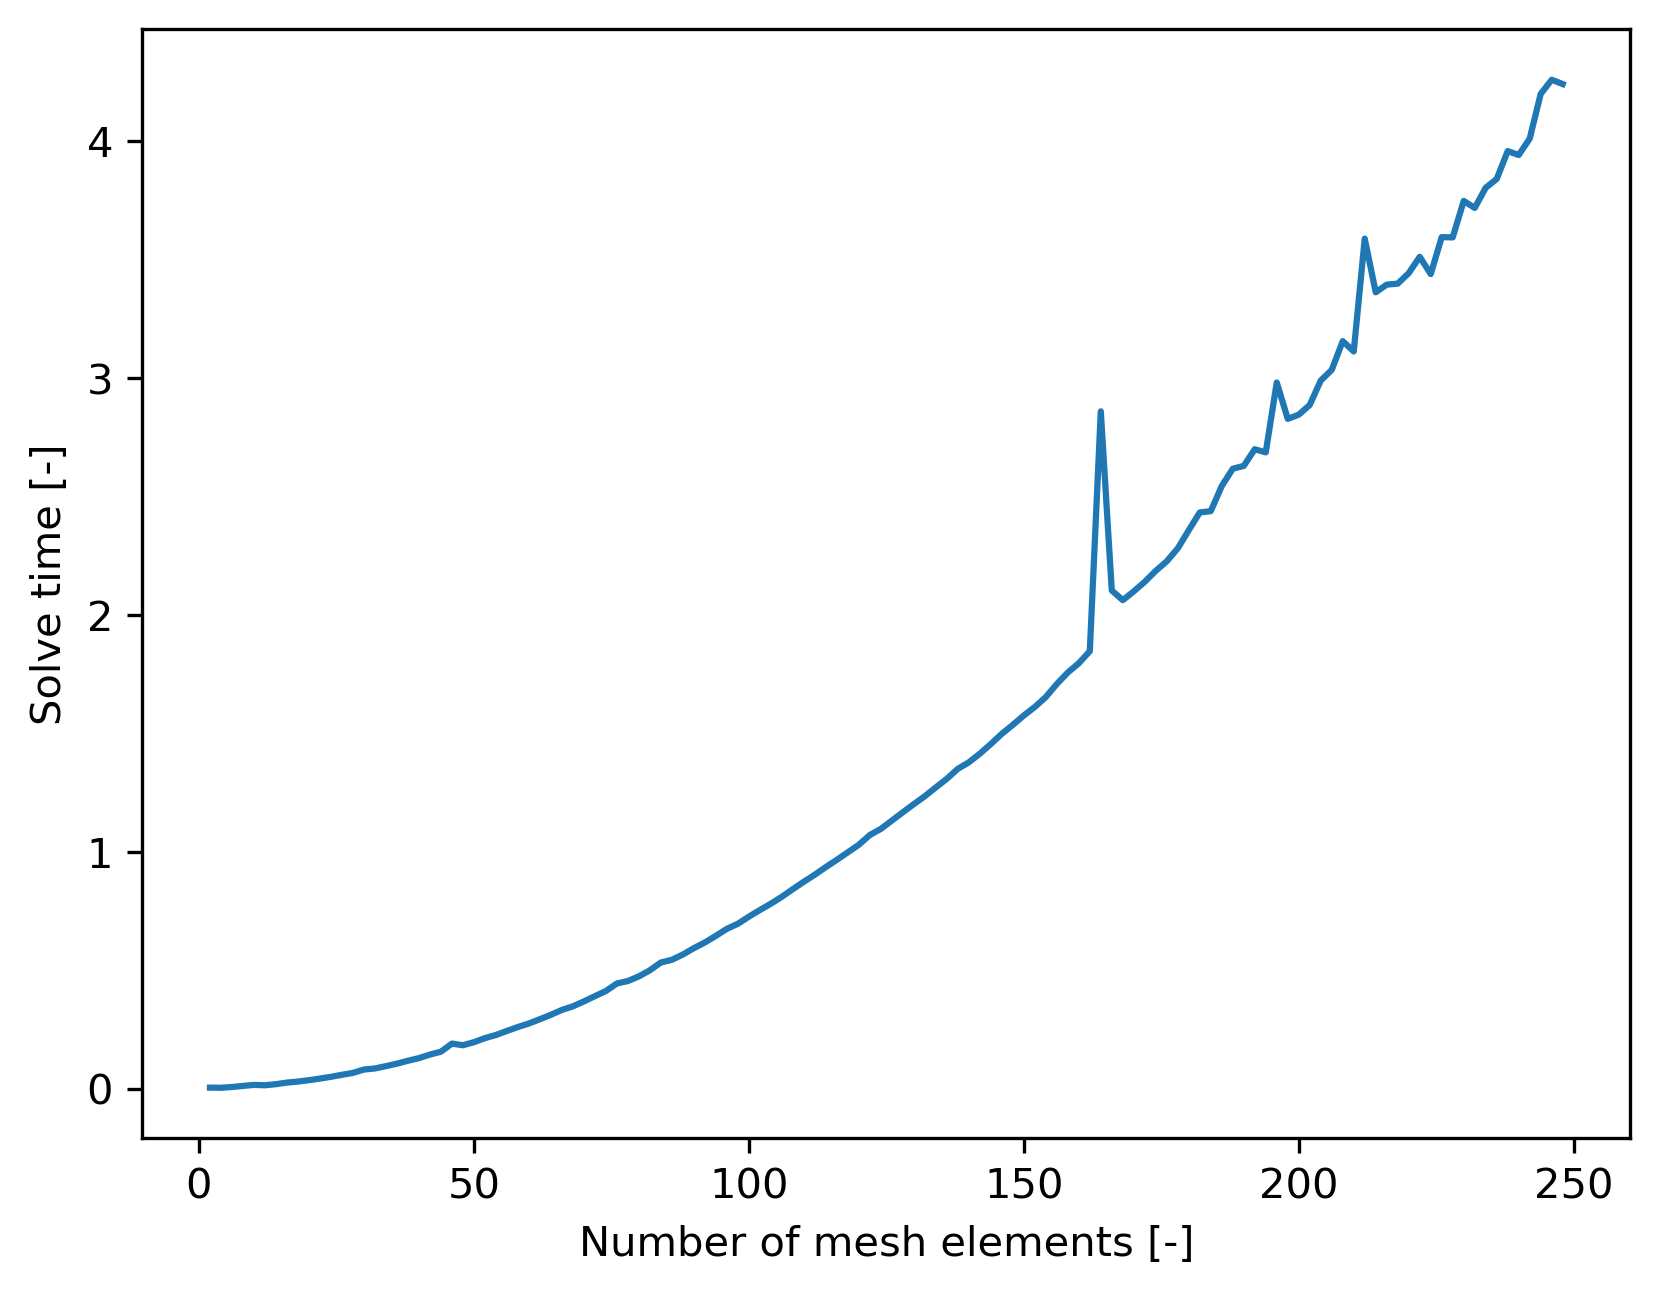
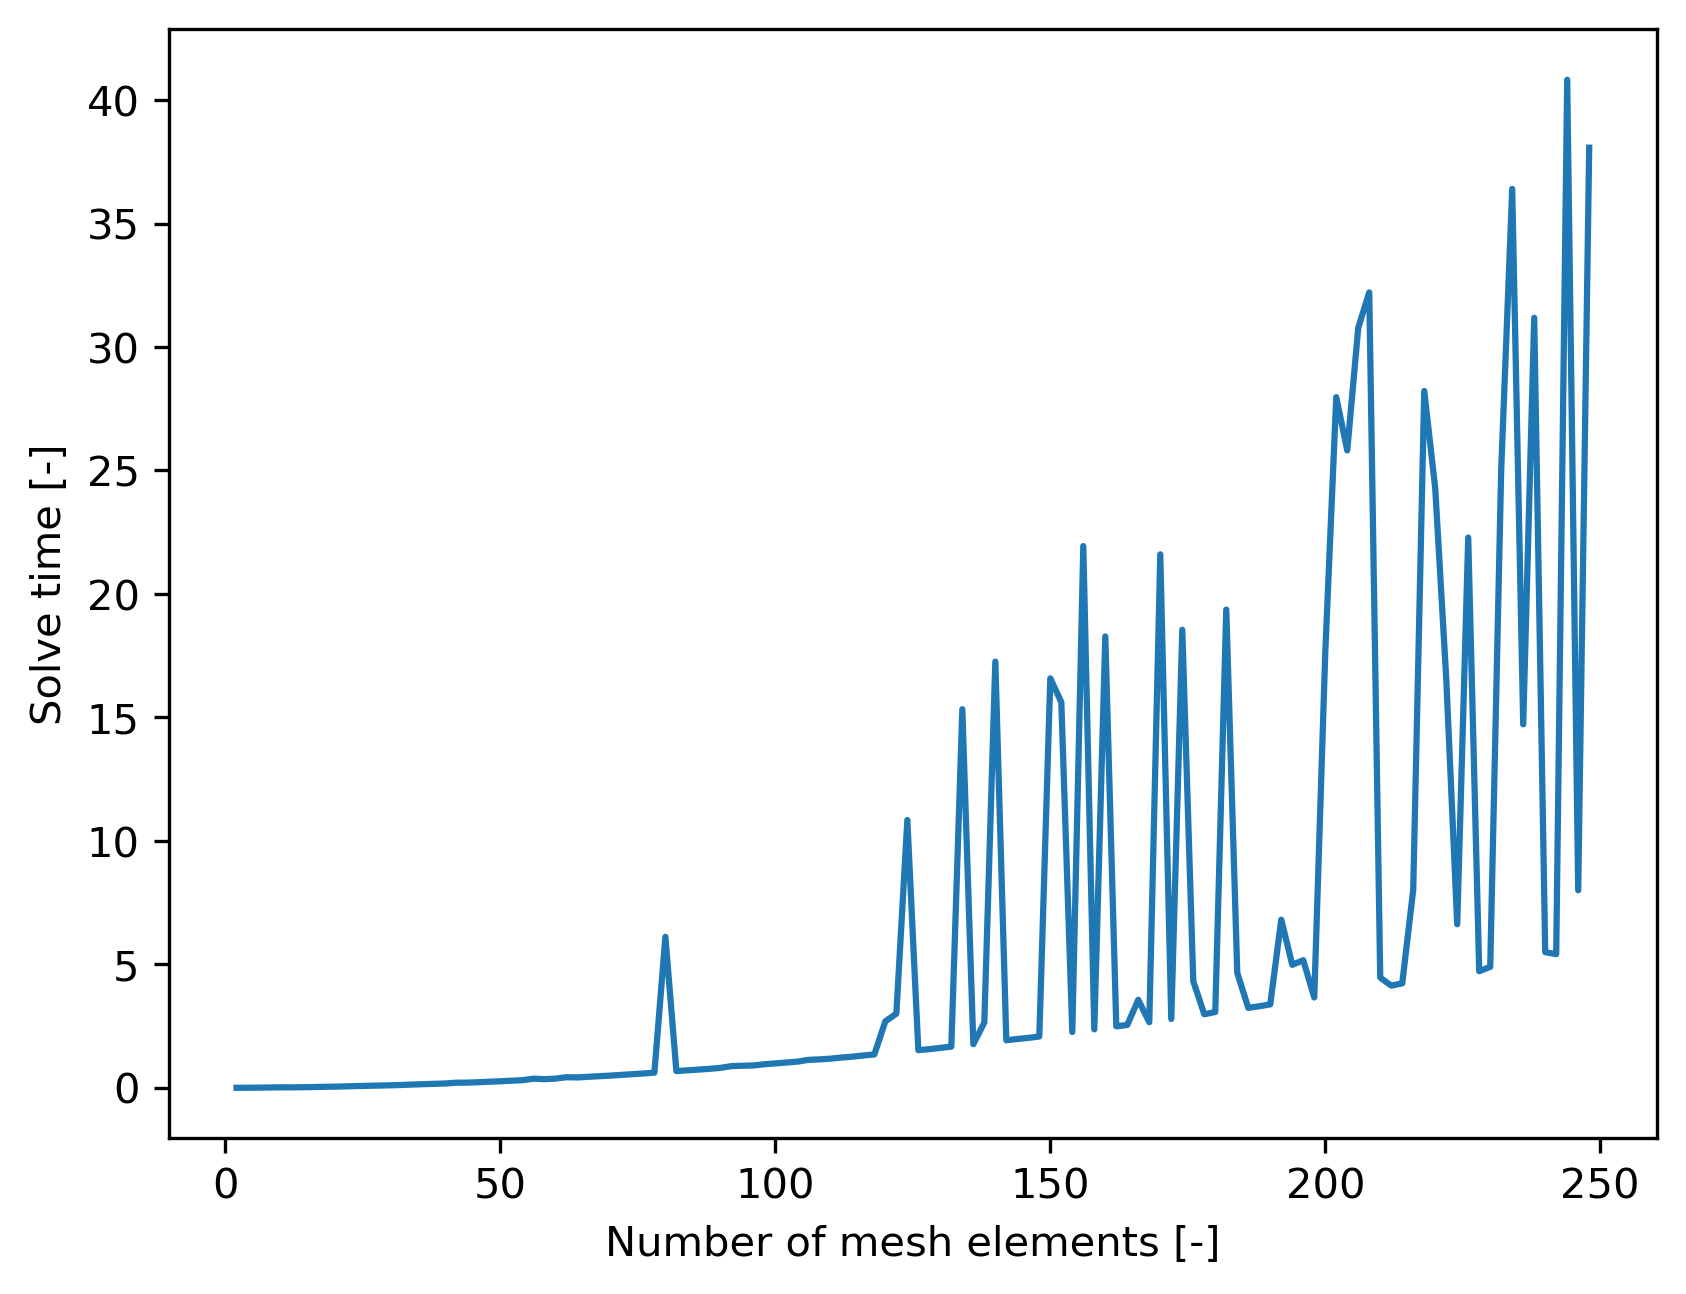
meeting_2

diff --git a/model_testing/mass_balance_test.py b/model_testing/mass_balance_test.py
@@ -36,7 +36,7 @@ x_CO2_0 = 0.998  # Initial CO2 mole fraction
 x_H2O_0 = 0.005  # Initial H2O mole fraction
 gas_mesh, oxide_mesh = 100, 100 # Discretization
 reduction=True
-oxidation=True
+oxidation=False
 
 # === Initialize storage for plotting variables
 delta_red_end = []

diff --git a/Lab_report.md b/Lab_report.md
@@ -377,4 +377,19 @@ X_CO2 = 0.5959 | X_H2 = 1.2087 | Q_red = 71.275 kJ/mol | Q_ox = -50.697 kJ/mol
 ```
 Still an *issue with balancing oxide and gas values.*
 
+### Meeting:
 
+```python
+if left = True $\rightarrow$ flip
+```
+
+-   default: `oxidation=False`
+-   use string: add dictionary ?
+Try
+``python
+N_oxide=3
+N_gas=3
+```
+for `batch_equilibrium_tests.py` $\rightarrow$  16 plots
+should always cross
+-   find correlation equation (in paper) and code
